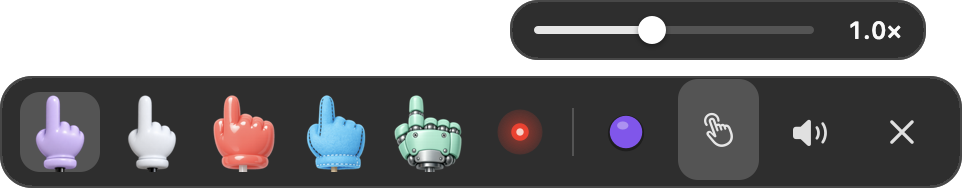
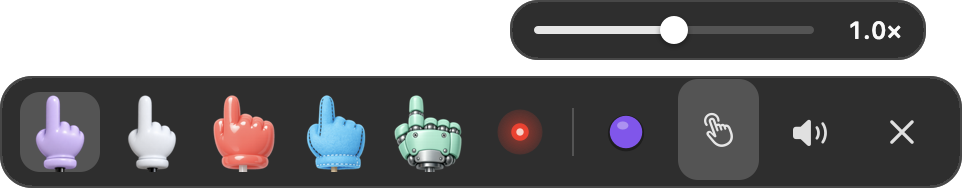
Swing range starts at Off, which keeps the original tap exactly

Changed region(s): [[0.6549, 0.0798, 0.7173, 0.2394]]

diff --git a/prototypes/tap-motion/index.html b/prototypes/tap-motion/index.html
@@ -52,7 +52,7 @@
 <main>
   <h1>Tap motion</h1>
   <div class="controls">
-    <label>Swing range <input id="swingRange" type="range" min="0.3" max="2" step="0.05" value="1"> <output id="sv">1.0×</output></label>
+    <label>Swing range <input id="swingRange" type="range" min="0" max="2" step="0.05" value="1"> <output id="sv">1.0×</output></label>
   </div>
   <div class="stages">
     <figure><figcaption>Before</figcaption><canvas id="cNow"></canvas></figure>
@@ -129,8 +129,10 @@ function drawArm(s, a, cursor, dt) {
   s.gripX = s.gripX == null ? targetX : s.gripX + (targetX - s.gripX) * (1 - Math.pow(1 - gripFollow, dt / 16.67));
   const grip = { x: s.gripX, y: -(gripDepthFrac + CROP_Y) * S }; // the area sits CROP_Y above the screen's bottom edge
 
+  // Swing range 0 is the original tap, same as the Before side.
+  const classic = s.kind === 'now' || k <= 0.001;
   let press, m = null;
-  if (s.kind === 'now') {
+  if (classic) {
     s.press += (0 - s.press) * (1 - Math.pow(1 - 0.18, dt / 16.67));
     press = s.press;
   } else {
@@ -144,7 +146,7 @@ function drawArm(s, a, cursor, dt) {
   dy = dy - dy / dist * poke + (m ? m.uy * S : 0);
   const reach = Math.hypot(dx, dy), aimAngle = Math.atan2(dy, dx);
 
-  const handPts = handLenFrac * S * (1 - (s.kind === 'now' ? 0.06 : 0.10) * press);
+  const handPts = handLenFrac * S * (1 - (classic ? 0.06 : 0.10) * press);
   const sc = handPts / (a.wrist - a.handTop), widthPts = sc * a.aspect;
   const handTipPts = (a.wrist - a.tip) * sc, tipOffX = (a.tipX - a.rodX) * widthPts;
   const along = Math.sqrt(Math.max(0, reach * reach - tipOffX * tipOffX));
@@ -171,7 +173,7 @@ function drawArm(s, a, cursor, dt) {
 // ---- Controls and clock ----
 const swingRange = document.getElementById('swingRange'), sv = document.getElementById('sv');
 const fill = () => swingRange.style.setProperty('--fill', (swingRange.value - swingRange.min) / (swingRange.max - swingRange.min) * 100 + '%');
-swingRange.oninput = () => { sv.textContent = (+swingRange.value).toFixed(1) + '×'; fill(); };
+swingRange.oninput = () => { sv.textContent = +swingRange.value < 0.025 ? 'Off' : (+swingRange.value).toFixed(1) + '×'; fill(); };
 fill();
 let clock = 0, asset = null, cursorN = { ...spots[2] }, lastMouse = -1e9;
 const stages = [makeStage(document.getElementById('cNow'), 'now'), makeStage(document.getElementById('cNew'), 'new')];

diff --git a/Sources/TinyHand/ArmView.swift b/Sources/TinyHand/ArmView.swift
@@ -131,9 +131,15 @@ final class ArmView: NSView {
         fatalError("init(coder:) not used")
     }
 
+    /// At swing range 0 the tap is the original one: no swing, just the small shrink.
+    private var swings: Bool { swingRange > 0.001 }
+
+    /// How long the tap sound waits so it plays when the fingertip lands.
+    var tapSoundDelay: CFTimeInterval { swings && style != .laser ? ArmView.strikeDelay : 0 }
+
     func press() {
         pressAmount = 1
-        tapStart = CACurrentMediaTime()
+        tapStart = swings ? CACurrentMediaTime() : nil
     }
 
     /// Jump straight to the moment the fingertip touches (used when a drag starts, and by renders).
@@ -223,7 +229,9 @@ final class ArmView: NSView {
         let reach = hypot(dx, dy)
         let aimAngle = atan2(dy, dx)
 
-        let handPts = handLenFrac * screenH * (1 - 0.10 * sw.press)
+        // Swing range 0 keeps the original press: pressAmount and a 6% shrink.
+        let press = swings ? sw.press : pressAmount
+        let handPts = handLenFrac * screenH * (1 - (swings ? 0.10 : 0.06) * press)
         let s = handPts / (a.wrist - a.handTop)
         let widthPts = s * a.aspect
         let handTipPts = (a.wrist - a.tip) * s
@@ -235,8 +243,8 @@ final class ArmView: NSView {
         let tipAngle = atan2(rodLen + handTipPts, tipOffX)
         let rotation = aimAngle - tipAngle + sw.tilt
 
-        let lift = liftFrac * screenH * (1 - 0.8 * sw.press)
-        let pressed = max(0, sw.press)
+        let lift = liftFrac * screenH * (1 - 0.8 * press)
+        let pressed = max(0, press)
         let sx = lift * 0.6
         let sy = -lift
         let shadowOffset = CGSize(
@@ -244,7 +252,7 @@ final class ArmView: NSView {
             height: sx * sin(-rotation) + sy * cos(-rotation)
         )
 
-        let pose = [rotation, rodLen, handPts, widthPts, grip.x, grip.y, lift, sw.press, showShadow ? 1 : 0, a.aspect]
+        let pose = [rotation, rodLen, handPts, widthPts, grip.x, grip.y, lift, press, showShadow ? 1 : 0, a.aspect]
             .map { ($0 * 100).rounded() }
         guard pose != lastPose else {
             return

diff --git a/Sources/TinyHand/OverlayController.swift b/Sources/TinyHand/OverlayController.swift
@@ -68,11 +68,12 @@ final class OverlayController {
             }
             self.armView.press()
             self.armView.held = true
-            if self.armView.style == .laser {
+            let delay = self.armView.tapSoundDelay
+            if delay == 0 {
                 self.tapSound.play()
             } else {
-                // The hand winds up first; play the sound when the fingertip lands.
-                DispatchQueue.main.asyncAfter(deadline: .now() + ArmView.strikeDelay) { [weak self] in
+                // The hand swings up first; play the sound when the fingertip lands.
+                DispatchQueue.main.asyncAfter(deadline: .now() + delay) { [weak self] in
                     self?.tapSound.play()
                 }
             }

diff --git a/Sources/TinyHand/Preferences.swift b/Sources/TinyHand/Preferences.swift
@@ -99,9 +99,10 @@ enum Preferences {
         set { set(Double(newValue), "pointerSize") }
     }
 
-    static let swingRangeLimits: ClosedRange<Double> = 0.3...2
+    static let swingRangeLimits: ClosedRange<Double> = 0...2
 
-    /// How far the stick swings up on a tap; 1 lifts the fingertip about 20% of the screen height.
+    /// How far the stick swings up on a tap. 0 keeps the original tap (the hand only shrinks a little);
+    /// 1 lifts the fingertip about 20% of the screen height.
     static var swingRange: Double {
         get { defaults.object(forKey: "swingRange") as? Double ?? 1 }
         set { set(min(max(newValue, swingRangeLimits.lowerBound), swingRangeLimits.upperBound), "swingRange") }

diff --git a/Sources/TinyHand/Toolbar.swift b/Sources/TinyHand/Toolbar.swift
@@ -281,7 +281,7 @@ final class Toolbar {
         if let slider = rangeSlider, abs(slider.doubleValue - k) > 0.05 {
             slider.doubleValue = k
         }
-        rangeLabel?.stringValue = String(format: "%.1f×", k)
+        rangeLabel?.stringValue = k < 0.025 ? "Off" : String(format: "%.1f×", k)
     }
 
     private func setInkOpen(_ open: Bool) {

diff --git a/AGENTS.md b/AGENTS.md
@@ -15,7 +15,7 @@ Fork of [nilbuild/tinyhand](https://github.com/nilbuild/tinyhand), a macOS menu 
 
 - 2026-11-07: Tap is a swing, not a shrink: the fingertip lifts 0.2 × screen height (and 0.025 right), the holding hand rises 45% of that with it, over 0.13 s; then it swings down in 0.09 s and presses. No wobble, and the holding hand does not follow the pointer up and down between taps (tried, rejected). The tap sound waits for contact (`ArmView.strikeDelay`); the laser dot is unchanged.
 - 2026-11-07: Own fork only, no pull request to the creators for now.
-- 2026-11-08: Swing range is a setting in the app: a `hand.tap` button in the bottom toolbar opens a slider tray (0.3×–2×, default 1×, `Preferences.swingRange`). It scales the swing's lift, poke and tilt, like the prototype's slider.
+- 2026-11-08: Swing range is a setting in the app: a `hand.tap` button in the bottom toolbar opens a slider tray (0–2×, default 1×, `Preferences.swingRange`). It scales the swing's lift, poke and tilt, like the prototype's slider. At 0 (shown as "Off") the tap is exactly the original: no swing, the old 6% shrink and the sound at once.
 - 2026-11-08: Plan is to offer the swing tap to the creators as a pull request (only the Swift changes, after building and testing the app). The fork's README only supplements the original: what the fork changes, the dark GIF and a link to the hosted prototype; install and usage stay in the original repo.
 
 ## Sync

diff --git a/README.md b/README.md
@@ -16,7 +16,7 @@ This repo is the source of a pull request to the original app. If it gets accept
 - **Swing down (0.09 s):** it swings down onto the spot and presses, then settles back. There's no wobble.
 - **Sound:** the tap sound plays when the fingertip lands. The laser pointer is unchanged.
 - **Drawing:** dragging skips straight to the pressed pose, so ink starts where you clicked.
-- **Swing range:** a new button in the toolbar at the bottom of the screen opens a slider from 0.3× to 2×. It scales how far the stick swings; 1× is the default.
+- **Swing range:** a new button in the toolbar at the bottom of the screen opens a slider from Off to 2×. Off keeps the original tap exactly; 1× is the default.
 
 The code is `ArmView.swing(at:)` in [Sources/TinyHand/ArmView.swift](Sources/TinyHand/ArmView.swift). The browser prototype in [prototypes/tap-motion](prototypes/tap-motion) mirrors it.
 
